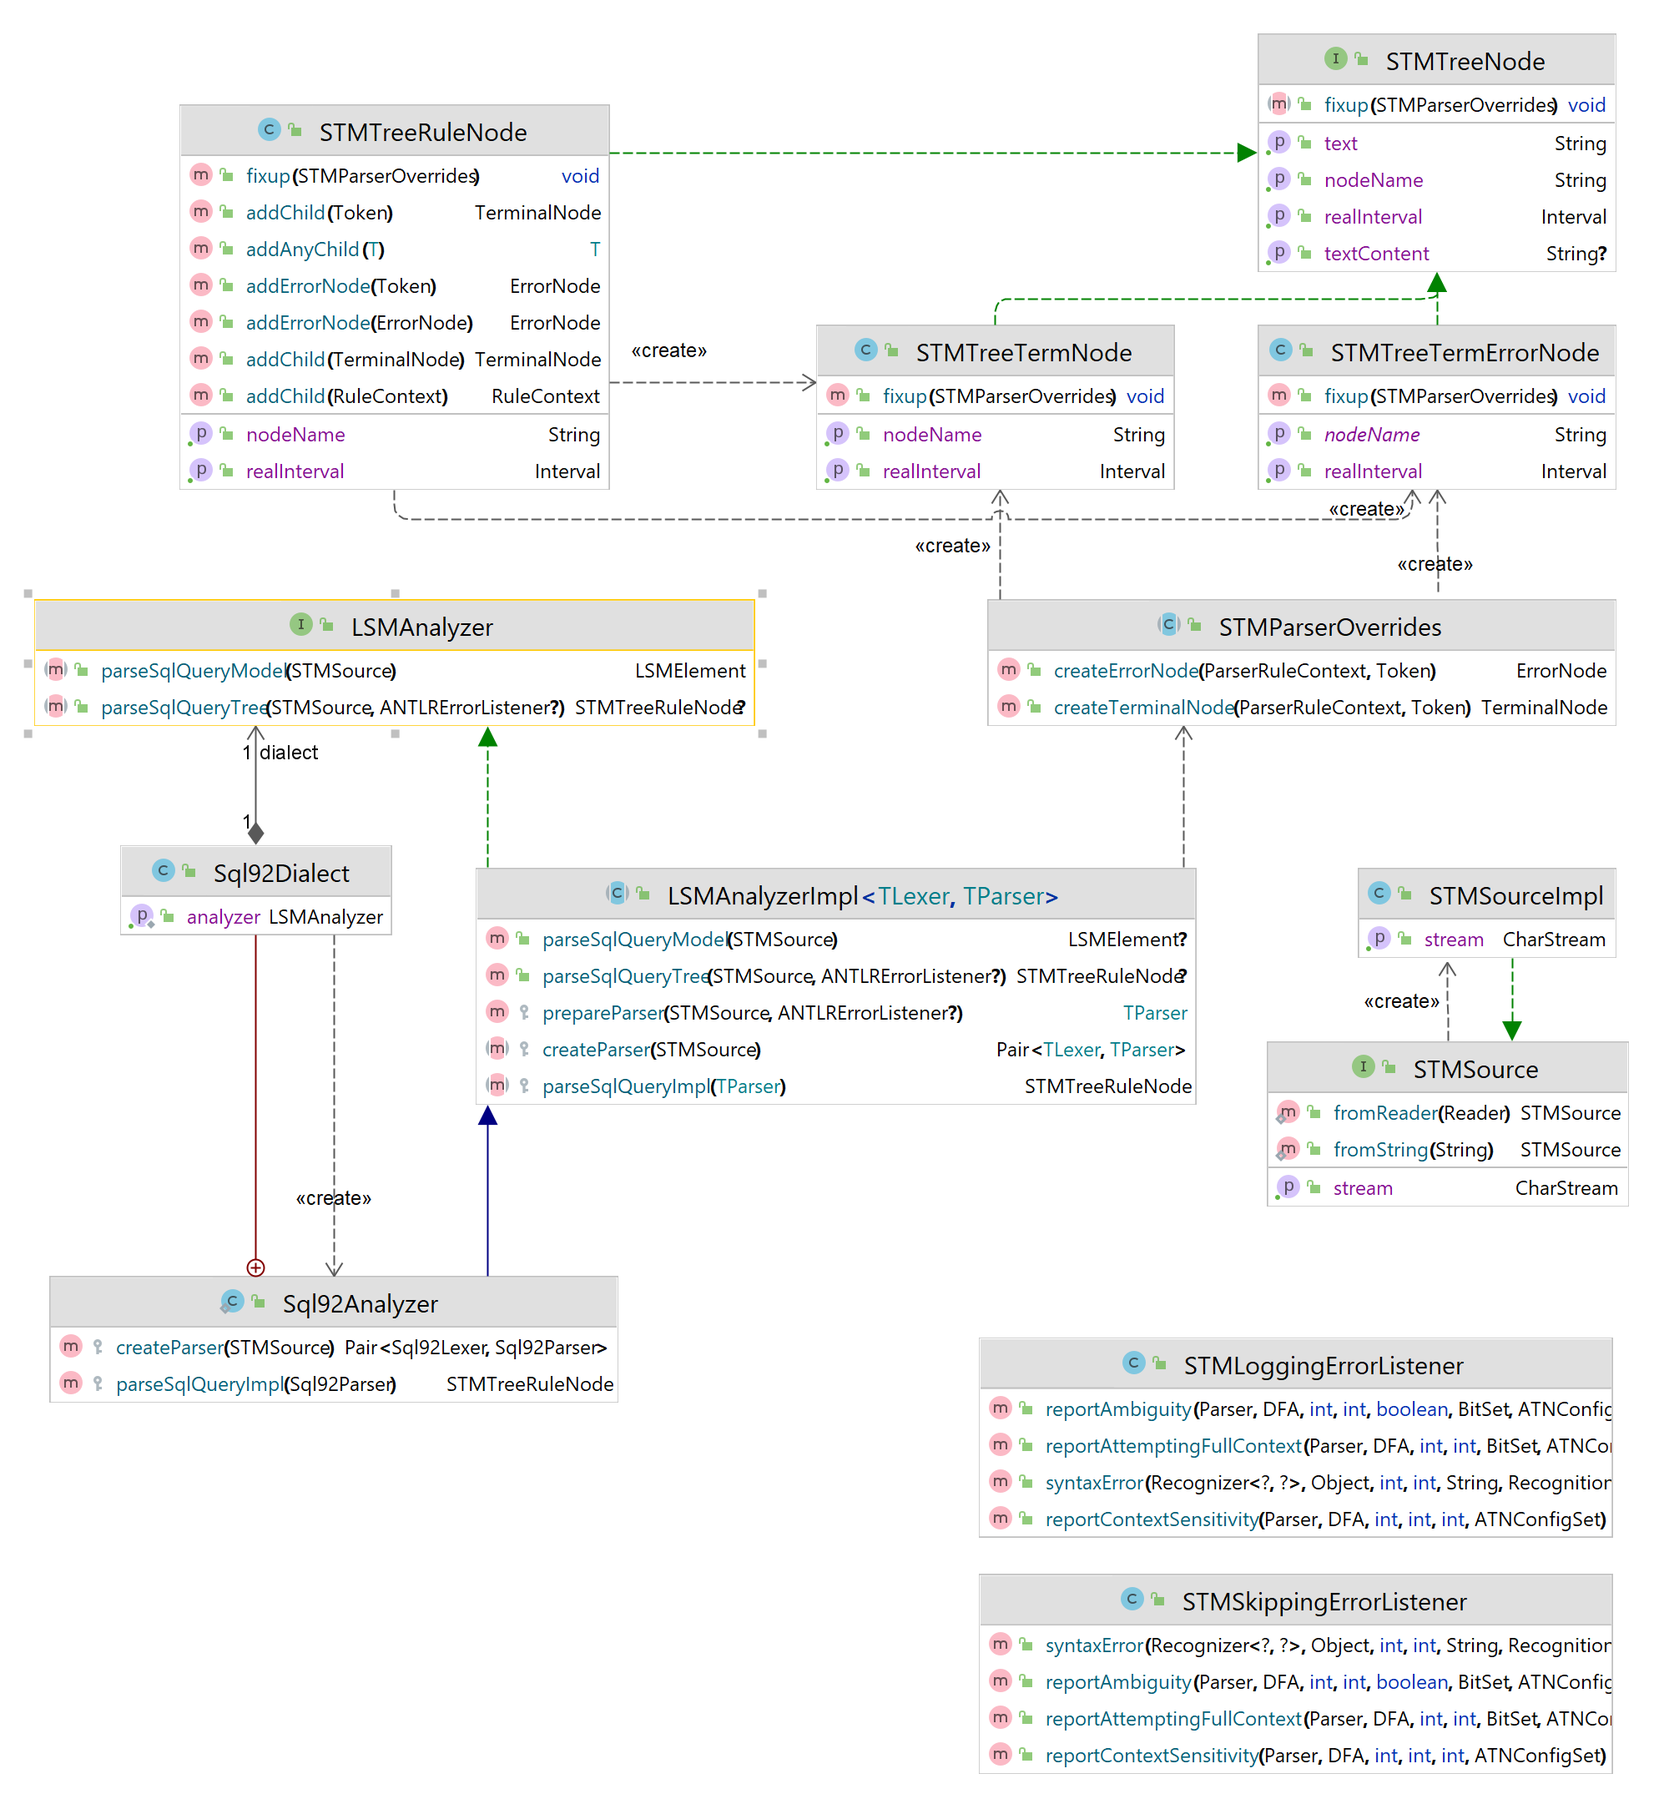
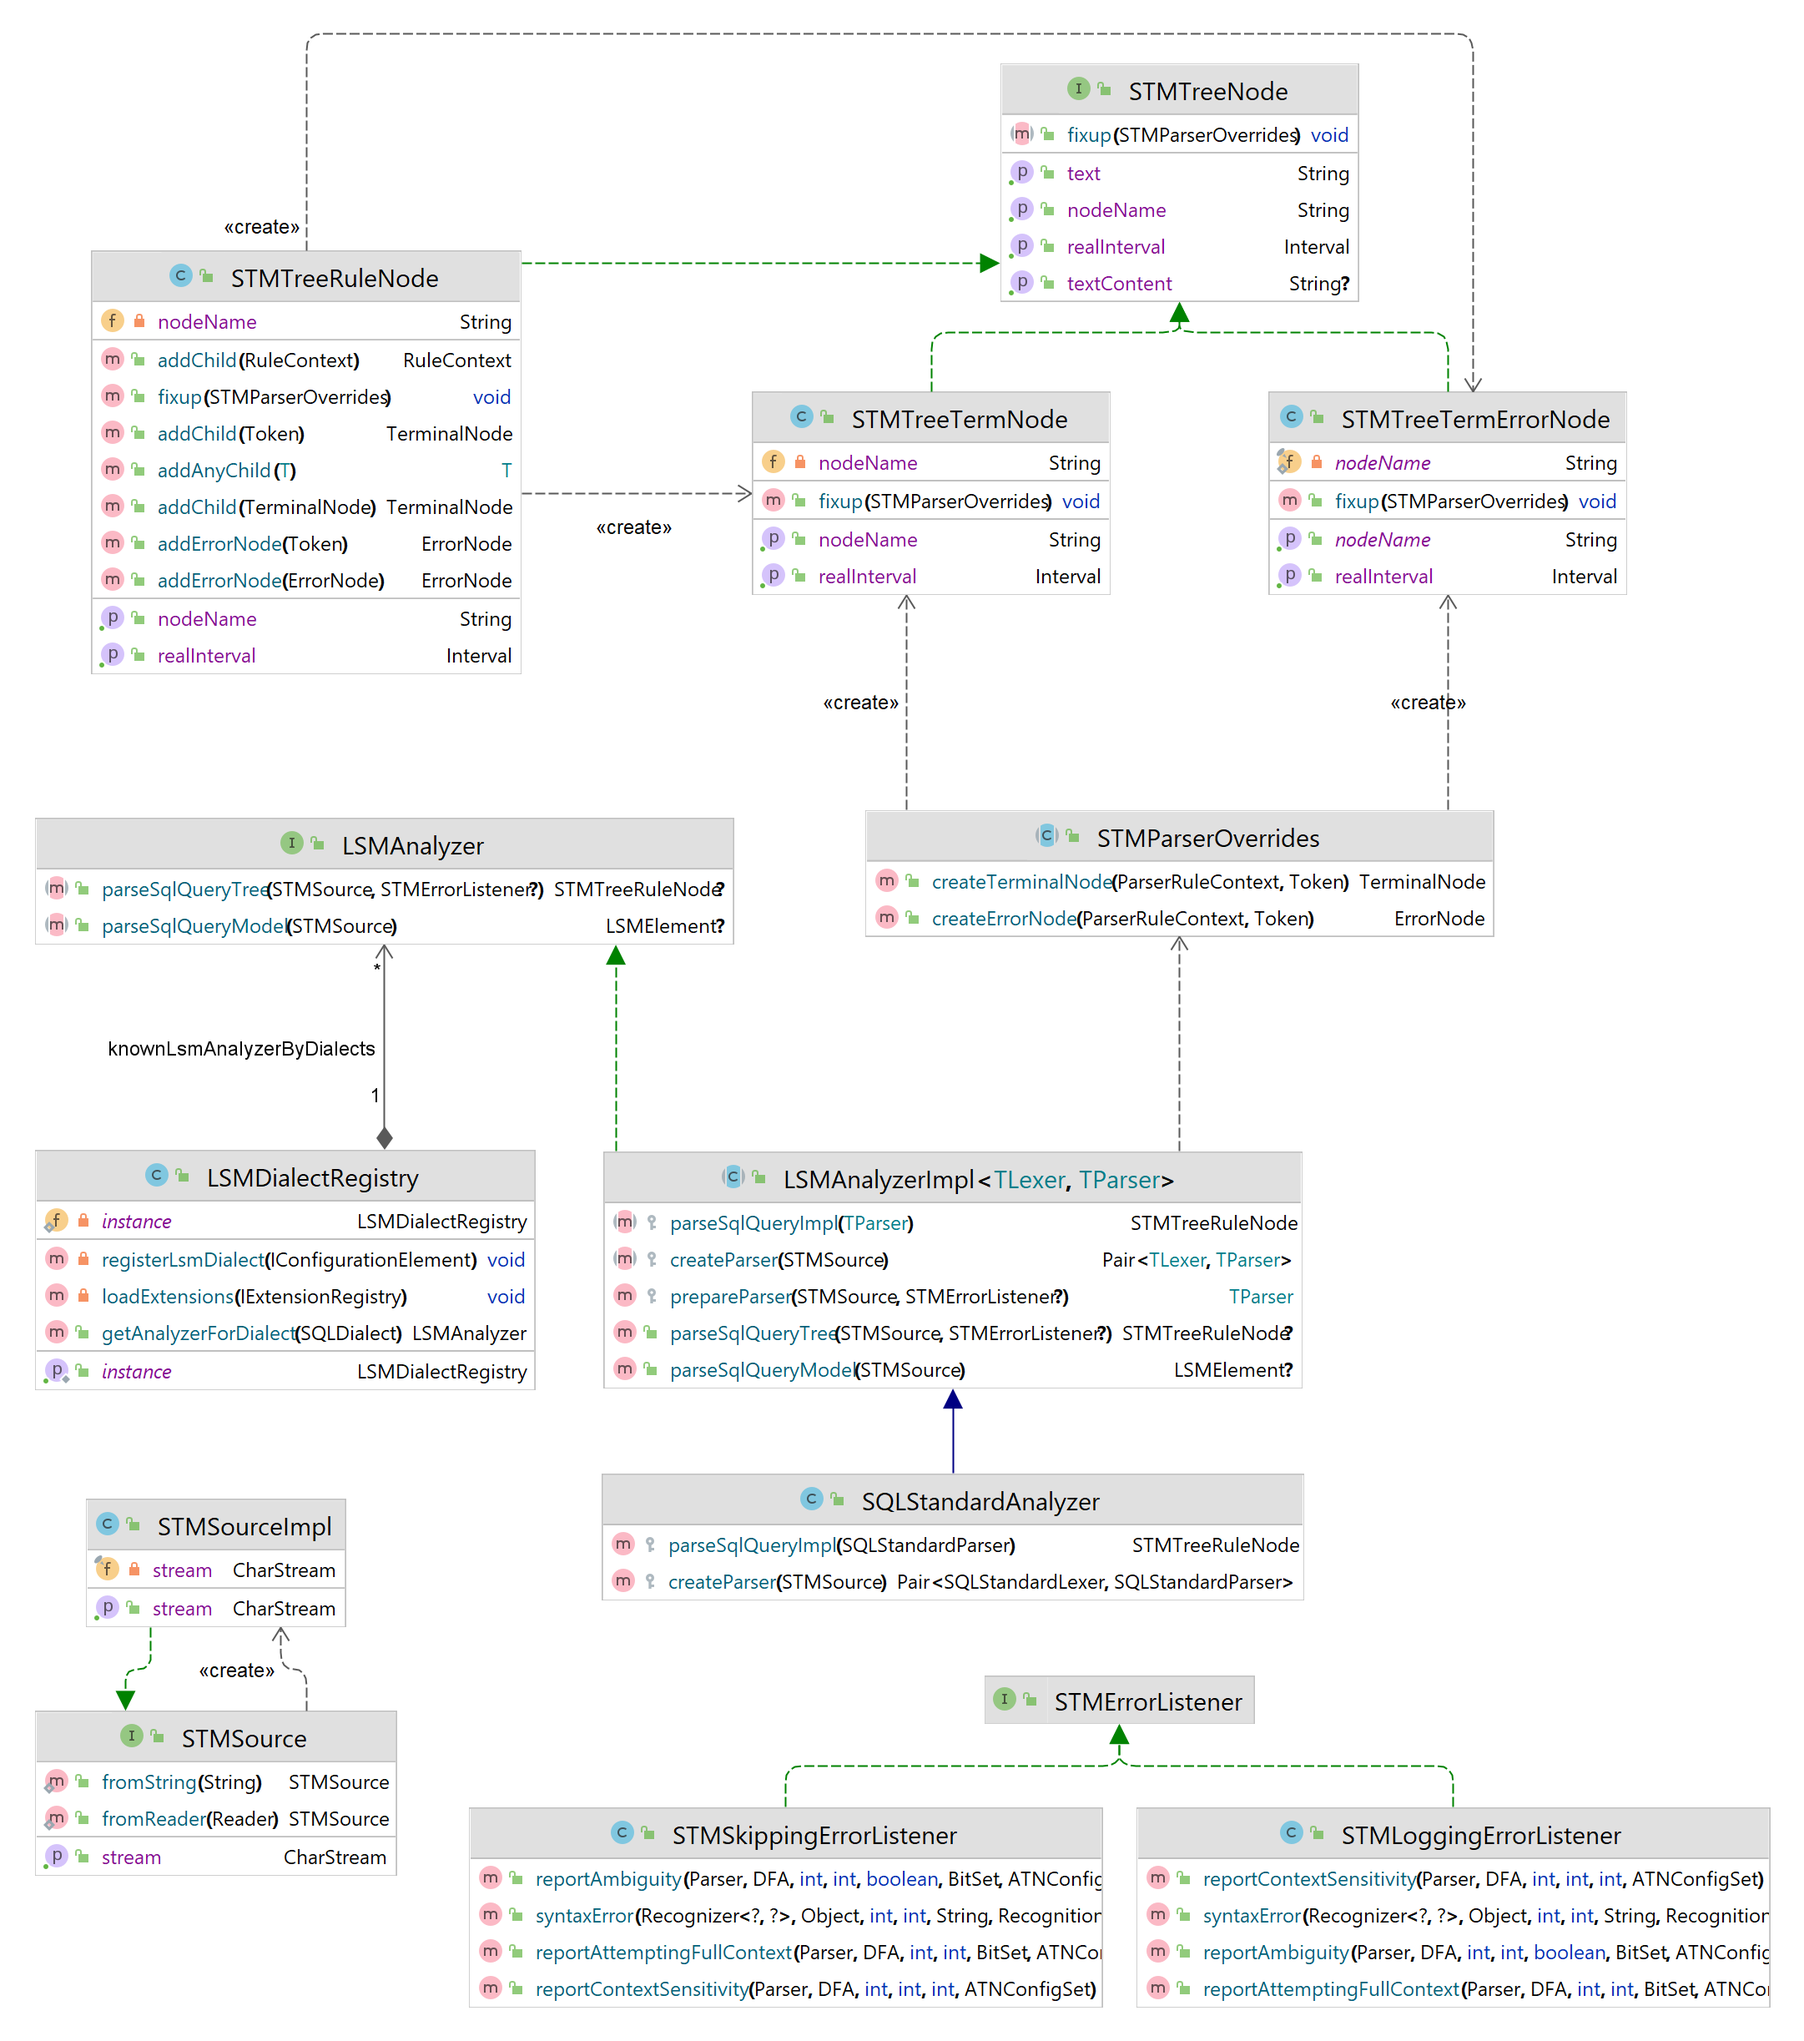
#20155 Update README, fix code style

Changed region(s): [[0.0, 0.0, 0.995, 0.9889]]

diff --git a/plugins/org.jkiss.dbeaver.ext.mssql/src/org/jkiss/dbeaver/ext/mssql/model/SQLServerSQLAnalyzer.java b/plugins/org.jkiss.dbeaver.ext.mssql/src/org/jkiss/dbeaver/ext/mssql/model/SQLServerSQLAnalyzer.java
@@ -16,14 +16,17 @@
  */
 package org.jkiss.dbeaver.ext.mssql.model;
 
+import org.jkiss.code.NotNull;
+import org.jkiss.code.Nullable;
 import org.jkiss.dbeaver.model.lsm.sql.dialect.SQLStandardAnalyzer;
 import org.jkiss.dbeaver.model.lsm.sql.impl.syntax.SQLStandardParser;
 import org.jkiss.dbeaver.model.stm.STMErrorListener;
 import org.jkiss.dbeaver.model.stm.STMSource;
 
 public class SQLServerSQLAnalyzer extends SQLStandardAnalyzer {
+    @NotNull
     @Override
-    protected SQLStandardParser prepareParser(STMSource source, STMErrorListener errorListener) {
+    protected SQLStandardParser prepareParser(@NotNull STMSource source, @Nullable STMErrorListener errorListener) {
         SQLStandardParser parser = super.prepareParser(source, errorListener);
         parser.setIsSupportSquareBracketQuotation(true);
         return parser;

diff --git a/plugins/org.jkiss.dbeaver.ext.sqlite/src/org/jkiss/dbeaver/ext/sqlite/model/SQLiteSQLAnalyzer.java b/plugins/org.jkiss.dbeaver.ext.sqlite/src/org/jkiss/dbeaver/ext/sqlite/model/SQLiteSQLAnalyzer.java
@@ -16,14 +16,17 @@
  */
 package org.jkiss.dbeaver.ext.sqlite.model;
 
+import org.jkiss.code.NotNull;
+import org.jkiss.code.Nullable;
 import org.jkiss.dbeaver.model.lsm.sql.dialect.SQLStandardAnalyzer;
 import org.jkiss.dbeaver.model.lsm.sql.impl.syntax.SQLStandardParser;
 import org.jkiss.dbeaver.model.stm.STMErrorListener;
 import org.jkiss.dbeaver.model.stm.STMSource;
 
 public class SQLiteSQLAnalyzer extends SQLStandardAnalyzer {
+    @NotNull
     @Override
-    protected SQLStandardParser prepareParser(STMSource source, STMErrorListener errorListener) {
+    protected SQLStandardParser prepareParser(@NotNull STMSource source, @Nullable STMErrorListener errorListener) {
         SQLStandardParser parser = super.prepareParser(source, errorListener);
         parser.setIsSupportSquareBracketQuotation(true);
         return parser;

diff --git a/plugins/org.jkiss.dbeaver.ext.mssql/src/org/jkiss/dbeaver/ext/mssql/model/SQLServerDialect.java b/plugins/org.jkiss.dbeaver.ext.mssql/src/org/jkiss/dbeaver/ext/mssql/model/SQLServerDialect.java
@@ -398,5 +398,4 @@ public class SQLServerDialect extends JDBCSQLDialect implements TPRuleProvider, 
     public boolean needsDefaultDataTypes() {
         return false;
     }
-
 }

diff --git a/plugins/org.jkiss.dbeaver.ext.sqlite/src/org/jkiss/dbeaver/ext/sqlite/model/SQLiteSQLDialect.java b/plugins/org.jkiss.dbeaver.ext.sqlite/src/org/jkiss/dbeaver/ext/sqlite/model/SQLiteSQLDialect.java
@@ -117,4 +117,5 @@ public class SQLiteSQLDialect extends GenericSQLDialect {
     public boolean supportsIndexCreateAndDrop() {
         return true;
     }
+
 }

diff --git a/plugins/org.jkiss.dbeaver.model.lsm/README.md b/plugins/org.jkiss.dbeaver.model.lsm/README.md
@@ -21,29 +21,35 @@ The first argument is `STMSource`. It's responsible for providing the source tex
 The second argument is of type `STMErrorListener` and used to define the behaviour on errors while parsing.
 Use `STMLoggingErrorListener` to log errors and `STMSkippingErrorListener` to just skip them and do nothing.
 
-`SQLStandardDialect` is a singleton encapsulating `SQLStandardAnalyzer` with parser and lexer by the common grammar.
-It's used to get a `SQLStandardAnalyzer` in implementation of `SQLDialect:getSyntaxAnalyzer` method.
-```java
-    default public LSMAnalyzer getSyntaxAnalyzer() {
-        return SQLStandardDialect.getAnalyzer();
-    }
+The concrete implementation of `LSMAnalyzer` used according to `SQLDialect` implementation with `LSMDialectRegistry`. `LSMDialectRegistry` contains a map with analyzer to dialect correspondence, which comes from extension point declared in `plugin.xml`.
+`SQLStandardAnalyzer` is a common analyzer with parser and lexer by the common grammar for most SQL databases without any specific settings. It's declared via extension point in `org.jkiss.dbeaver.model.sql.plugin.xml`.
+
+```xml
+    <extension point="org.jkiss.dbeaver.lsm.dialectSyntax">
+        <lsmDialect analyzerClass="org.jkiss.dbeaver.model.lsm.sql.dialect.SQLStandardAnalyzer">
+            <appliesTo dialectClass="org.jkiss.dbeaver.model.impl.sql.BasicSQLDialect"/>
+        </lsmDialect>
+    </extension>
 ```
-If we need to use a common grammar, but with a specific parser configuration,
-then this method should be overridden by the corresponding database dialect.
+If we need to use a common grammar, but with a specific parser configuration, or want to use analyzer with database-specific parser and lexer,
+then we need to describe it accordingly using extension point.
 The following listing gives an example of configuring parser for specific dialect to use square brackets quotation for identifiers.
 ```java
-
-private static final LSMAnalyzer analyzer = new SQLStandardDialect.SQLStandardAnalyzer() {
+public class SQLiteSQLAnalyzer extends SQLStandardAnalyzer {
+    @NotNull
     @Override
-    private SQLStandardParser prepareParser(LSMSource source, STMErrorListener errorListener) {
+    protected SQLStandardParser prepareParser(@NotNull STMSource source, @Nullable STMErrorListener errorListener) {
         SQLStandardParser parser = super.prepareParser(source, errorListener);
         parser.setIsSupportSquareBracketQuotation(true);
         return parser;
     }
-};
-
-@Override
-public LSMAnalyzer getSyntaxAnalyzer() {
-   return analyzer;
 }
+```
+Usage of corresponding extension point for this case is the following:
+```xml
+    <extension point="org.jkiss.dbeaver.lsm.dialectSyntax">
+        <lsmDialect analyzerClass="org.jkiss.dbeaver.ext.sqlite.model.SQLiteSQLAnalyzer">
+            <appliesTo dialectClass="org.jkiss.dbeaver.ext.sqlite.model.SQLiteSQLDialect"/>
+        </lsmDialect>
+    </extension>
 ```
